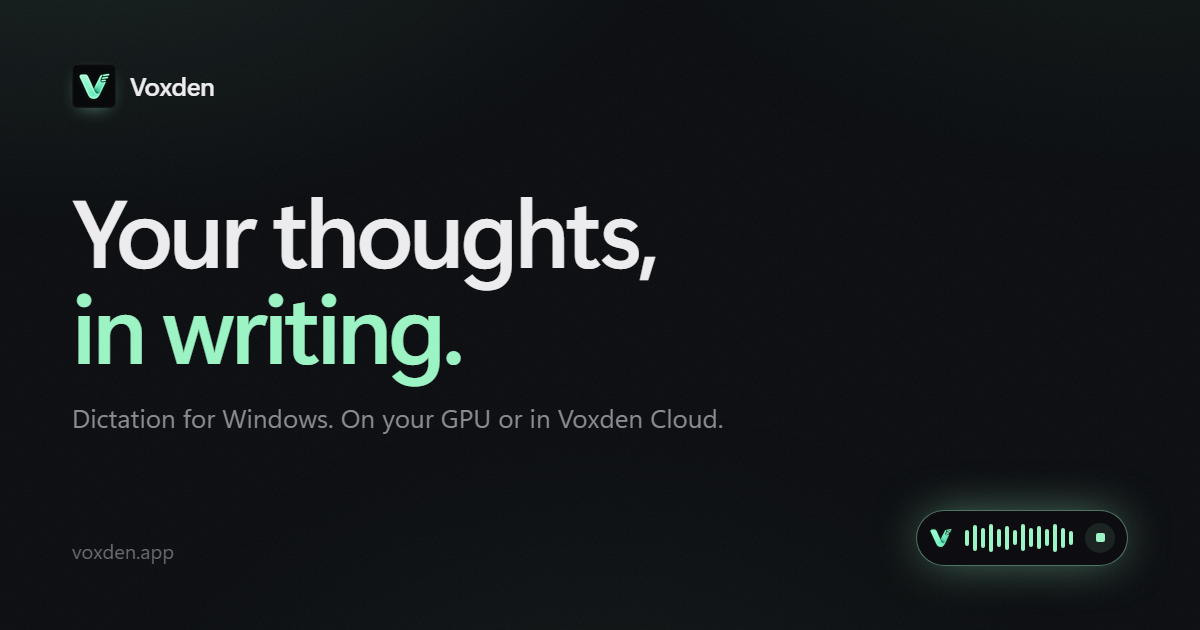
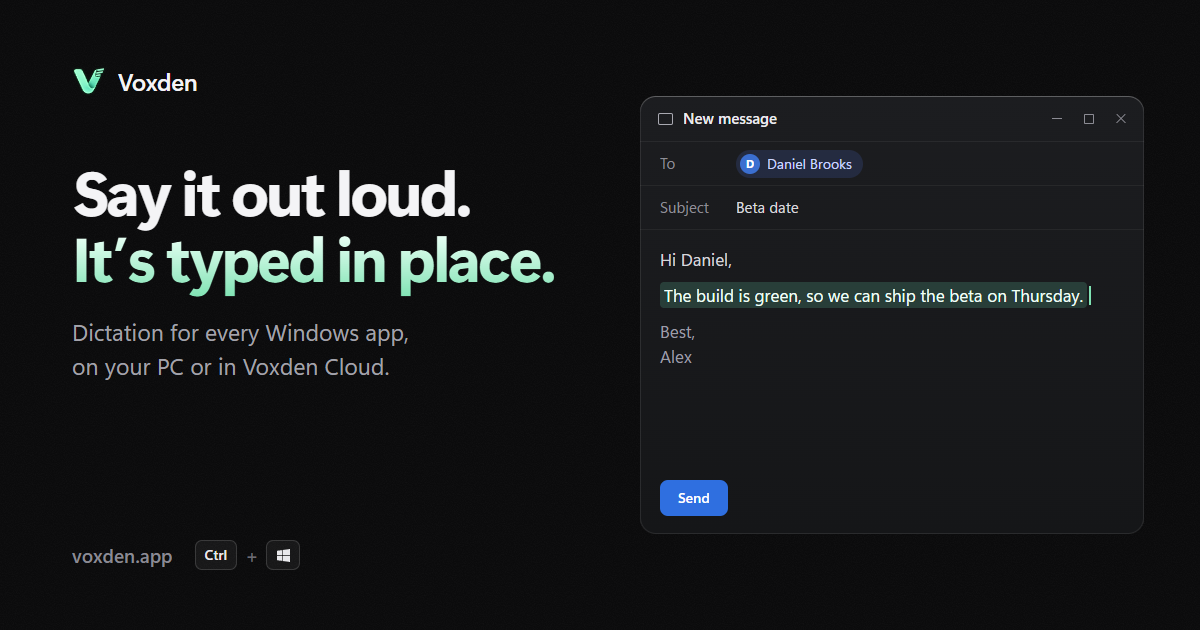
Give voxden.app a share card in the new branding
The link preview still showed the old "Your thoughts, in writing." card.
The new one pairs "Say it out loud. It's typed in place." with a glass
New message window holding the dictated line, in the site's colours.
The image URL moves to ?v=3 on every page and in the changelog
builder, so apps that cached the old card fetch the new one.

diff --git a/scripts/build-changelog.js b/scripts/build-changelog.js
@@ -426,7 +426,7 @@ function buildPage(releases) {
   <meta property="og:title" content="Changelog — Voxden">
   <meta property="og:description" content="Every Voxden release for Windows, newest first: what changed and where to download it.">
   <meta property="og:url" content="https://voxden.app/changelog">
-  <meta property="og:image" content="https://voxden.app/assets/img/og.png?v=2">
+  <meta property="og:image" content="https://voxden.app/assets/img/og.png?v=3">
   <meta name="twitter:card" content="summary_large_image">
   <link rel="icon" href="/favicon.ico?v=2" sizes="any">
   <link rel="icon" href="/assets/img/icon.png?v=2" type="image/png">

diff --git a/site/contact.html b/site/contact.html
@@ -13,7 +13,7 @@
   <meta property="og:title" content="Contact — Voxden">
   <meta property="og:description" content="How to reach the person who makes Voxden: feedback from inside the app, issues and releases on GitHub, and billing.">
   <meta property="og:url" content="https://voxden.app/contact">
-  <meta property="og:image" content="https://voxden.app/assets/img/og.png?v=2">
+  <meta property="og:image" content="https://voxden.app/assets/img/og.png?v=3">
   <meta name="twitter:card" content="summary_large_image">
   <link rel="icon" href="/favicon.ico?v=2" sizes="any">
   <link rel="icon" href="/assets/img/icon.png?v=2" type="image/png">

diff --git a/site/download.html b/site/download.html
@@ -13,7 +13,7 @@
   <meta property="og:title" content="Download — Voxden">
   <meta property="og:description" content="Voxden for Windows 10 and 11, 64-bit. One installer, and what to click when Windows says it protected your PC.">
   <meta property="og:url" content="https://voxden.app/download">
-  <meta property="og:image" content="https://voxden.app/assets/img/og.png?v=2">
+  <meta property="og:image" content="https://voxden.app/assets/img/og.png?v=3">
   <meta name="twitter:card" content="summary_large_image">
   <link rel="icon" href="/favicon.ico?v=2" sizes="any">
   <link rel="icon" href="/assets/img/icon.png?v=2" type="image/png">

diff --git a/site/pricing.html b/site/pricing.html
@@ -13,7 +13,7 @@
   <meta property="og:title" content="Pricing — Voxden">
   <meta property="og:description" content="Free on your own PC. Pro is one monthly plan, priced for where you are. Cancel any time from inside the app.">
   <meta property="og:url" content="https://voxden.app/pricing">
-  <meta property="og:image" content="https://voxden.app/assets/img/og.png?v=2">
+  <meta property="og:image" content="https://voxden.app/assets/img/og.png?v=3">
   <meta name="twitter:card" content="summary_large_image">
   <link rel="icon" href="/favicon.ico?v=2" sizes="any">
   <link rel="icon" href="/assets/img/icon.png?v=2" type="image/png">

diff --git a/site/refunds.html b/site/refunds.html
@@ -13,7 +13,7 @@
   <meta property="og:title" content="Refunds and cancellation — Voxden">
   <meta property="og:description" content="How to cancel Voxden Pro, when a payment is refunded, and how the money comes back.">
   <meta property="og:url" content="https://voxden.app/refunds">
-  <meta property="og:image" content="https://voxden.app/assets/img/og.png?v=2">
+  <meta property="og:image" content="https://voxden.app/assets/img/og.png?v=3">
   <meta name="twitter:card" content="summary_large_image">
   <link rel="icon" href="/favicon.ico?v=2" sizes="any">
   <link rel="icon" href="/assets/img/icon.png?v=2" type="image/png">

diff --git a/site/index.html b/site/index.html
@@ -13,7 +13,7 @@
   <meta property="og:title" content="Voxden — Dictation for Windows">
   <meta property="og:description" content="Speak naturally. Voxden types it into any Windows app, on your GPU or through Voxden Cloud.">
   <meta property="og:url" content="https://voxden.app/">
-  <meta property="og:image" content="https://voxden.app/assets/img/og.png?v=2">
+  <meta property="og:image" content="https://voxden.app/assets/img/og.png?v=3">
   <meta name="twitter:card" content="summary_large_image">
   <link rel="icon" href="/favicon.ico?v=2" sizes="any">
   <link rel="icon" href="/assets/img/icon.png?v=2" type="image/png">

diff --git a/site/changelog.html b/site/changelog.html
@@ -13,7 +13,7 @@
   <meta property="og:title" content="Changelog — Voxden">
   <meta property="og:description" content="Every Voxden release for Windows, newest first: what changed and where to download it.">
   <meta property="og:url" content="https://voxden.app/changelog">
-  <meta property="og:image" content="https://voxden.app/assets/img/og.png?v=2">
+  <meta property="og:image" content="https://voxden.app/assets/img/og.png?v=3">
   <meta name="twitter:card" content="summary_large_image">
   <link rel="icon" href="/favicon.ico?v=2" sizes="any">
   <link rel="icon" href="/assets/img/icon.png?v=2" type="image/png">

diff --git a/site/shipping.html b/site/shipping.html
@@ -13,7 +13,7 @@
   <meta property="og:title" content="Shipping and delivery — Voxden">
   <meta property="og:description" content="Voxden is downloadable software. Nothing is physically shipped.">
   <meta property="og:url" content="https://voxden.app/shipping">
-  <meta property="og:image" content="https://voxden.app/assets/img/og.png?v=2">
+  <meta property="og:image" content="https://voxden.app/assets/img/og.png?v=3">
   <meta name="twitter:card" content="summary_large_image">
   <link rel="icon" href="/favicon.ico?v=2" sizes="any">
   <link rel="icon" href="/assets/img/icon.png?v=2" type="image/png">

diff --git a/site/privacy.html b/site/privacy.html
@@ -13,7 +13,7 @@
   <meta property="og:title" content="Privacy policy — Voxden">
   <meta property="og:description" content="What Voxden keeps, where it keeps it, and what you can do about it.">
   <meta property="og:url" content="https://voxden.app/privacy">
-  <meta property="og:image" content="https://voxden.app/assets/img/og.png?v=2">
+  <meta property="og:image" content="https://voxden.app/assets/img/og.png?v=3">
   <meta name="twitter:card" content="summary_large_image">
   <link rel="icon" href="/favicon.ico?v=2" sizes="any">
   <link rel="icon" href="/assets/img/icon.png?v=2" type="image/png">

diff --git a/site/terms.html b/site/terms.html
@@ -13,7 +13,7 @@
   <meta property="og:title" content="Terms of use — Voxden">
   <meta property="og:description" content="The terms you agree to when you use Voxden, in plain English.">
   <meta property="og:url" content="https://voxden.app/terms">
-  <meta property="og:image" content="https://voxden.app/assets/img/og.png?v=2">
+  <meta property="og:image" content="https://voxden.app/assets/img/og.png?v=3">
   <meta name="twitter:card" content="summary_large_image">
   <link rel="icon" href="/favicon.ico?v=2" sizes="any">
   <link rel="icon" href="/assets/img/icon.png?v=2" type="image/png">

diff --git a/site/404.html b/site/404.html
@@ -13,7 +13,7 @@
   <meta property="og:title" content="Page not found — Voxden">
   <meta property="og:description" content="That address does not exist on voxden.app.">
   <meta property="og:url" content="https://voxden.app/404">
-  <meta property="og:image" content="https://voxden.app/assets/img/og.png?v=2">
+  <meta property="og:image" content="https://voxden.app/assets/img/og.png?v=3">
   <meta name="twitter:card" content="summary_large_image">
   <link rel="icon" href="/favicon.ico?v=2" sizes="any">
   <link rel="icon" href="/assets/img/icon.png?v=2" type="image/png">
